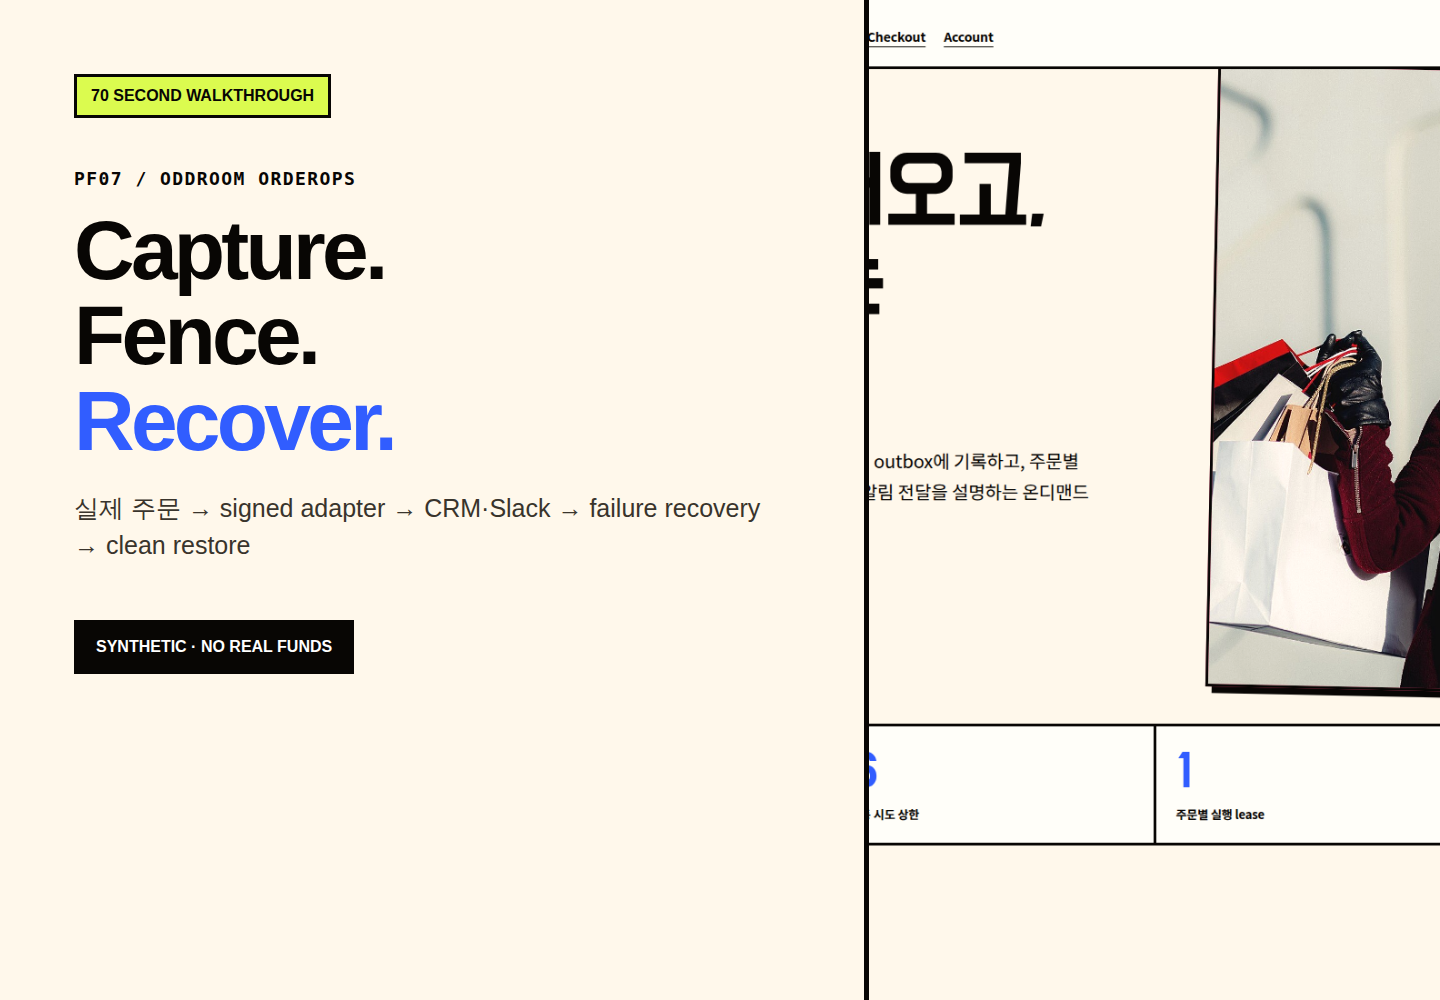
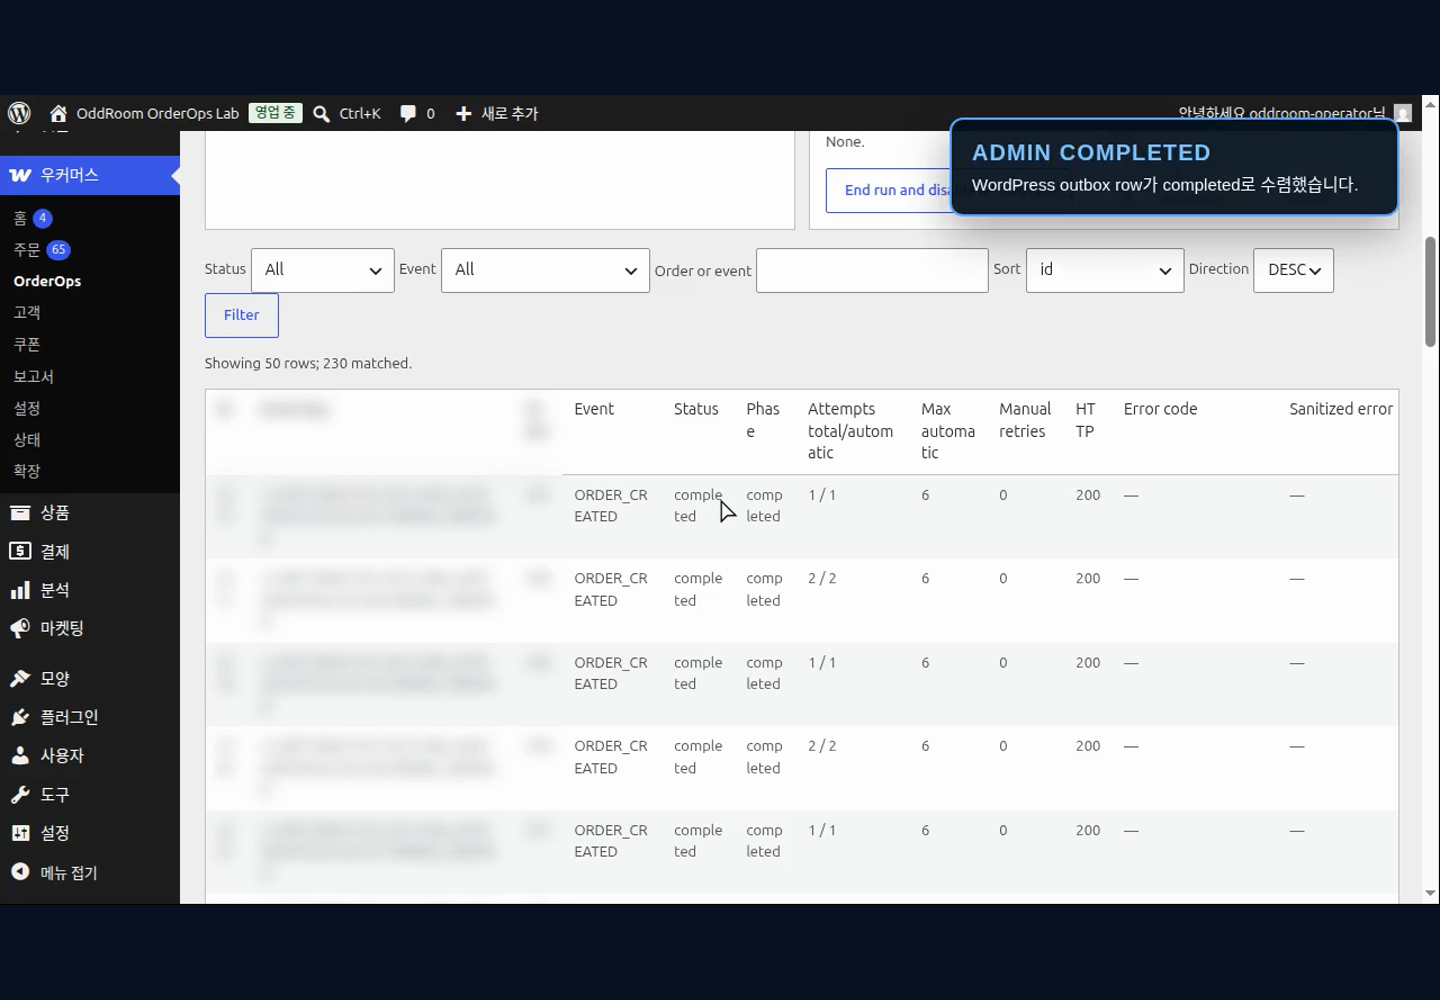
Publish PF07 real execution case media

diff --git a/assets/js/projects.js b/assets/js/projects.js
@@ -123,8 +123,8 @@ window.PORTFOLIO_PROJECTS = [
     excluded: ["실결제·실고객·실매출 처리", "부분 환불·chargeback·모든 WooCommerce edge case", "고가용성·production SLA·enterprise scale", "formal exactly-once delivery", "Slack accepted/response-lost window 제거"],
     tech: ["WordPress 7.0.2", "WooCommerce 10.9.4", "PHP 8.3", "Action Scheduler 4.0.0", "n8n 2.25.7", "HubSpot API", "Slack API", "Docker Compose"],
     disclosure: "합성 주문과 비금전 결제 경로로 검증한 ON_DEMAND_ONLY staging 사례입니다. 정적 case와 redacted evidence는 runtime uptime과 독립적으로 공개됩니다.",
-    videoSummary: "70초 동안 주문 capture, outbox fencing, signed n8n adapter, HubSpot·Slack checkpoint, bounded retry, operator review, reconciliation, clean restore를 실제 마스킹 화면과 관찰 수치로 연결합니다.",
-    recoveryVideoSummary: "실패 직전 checkpoint에서 자동 재시도 또는 operator_wait로 갈라지고, 증거가 있는 경우에만 안전한 phase에서 한 번 재개하는 18초 복구 클립입니다.",
+    videoSummary: "72.767초 연속 녹화에서 실제 상품 선택·키 입력·비금전 주문 제출, outbox pending, 화면에 나타나는 WP-CLI worker 실행, completed 수렴을 같은 주문 흐름으로 확인합니다.",
+    recoveryVideoSummary: "28.333초 연속 녹화에서 화면에 나타나는 n8n 중지·실패 worker·재기동·복구 worker와 pending → retry_wait → completed 전이를 확인합니다.",
     sourceUrl: "https://github.com/Cetacean916/oddroom-woo-orderops",
     proofScorecard: [
       ["지원 주문 이벤트", "4종", "GATE-02"],
@@ -140,7 +140,8 @@ window.PORTFOLIO_PROJECTS = [
       ["10-gate evidence index", "https://github.com/Cetacean916/oddroom-woo-orderops/blob/main/evidence/public/acceptance-matrix.json"],
       ["WordPress tests", "https://github.com/Cetacean916/oddroom-woo-orderops/blob/main/plugin/oddroom-orderops/tests/run.php"],
       ["n8n workflow", "https://github.com/Cetacean916/oddroom-woo-orderops/blob/main/workflow/oddroom-orderops-vsl.json"],
-      ["복구 runbook", "https://github.com/Cetacean916/oddroom-woo-orderops/blob/main/docs/RECOVERY-RUNBOOK.md"]
+      ["복구 runbook", "https://github.com/Cetacean916/oddroom-woo-orderops/blob/main/docs/RECOVERY-RUNBOOK.md"],
+      ["실행 영상 무결성 기록", "assets/media/pf07/execution-proof.json"]
     ],
     whatProves: ["WooCommerce custom plugin with durable event tracking", "tested duplicate suppression and bounded retries", "signed n8n adapter to HubSpot and Slack", "fault-injection and reconciliation evidence", "staging backup/restore drill completed"],
     doesNotProve: ["Production load, scale, uptime, or SLA", "실결제·실고객·실매출·실환불 처리", "부분 환불, chargeback, reopened/reversed terminal order, 모든 WooCommerce edge case", "PF07이 보존하지 못한 최초 cancellation timestamp 재구성", "Formal exactly-once delivery", "캡처된 유효 signed request의 transport replay 방지", "Slack accepted/response-lost window 제거", "동일 HubSpot Deal에 대한 무관한 외부 writer 방어"],

diff --git a/README.md b/README.md
@@ -38,10 +38,13 @@ success or failure next to the control.
 - PF07: WooCommerce order delivery, bounded retry, operator recovery, and clean restore
 
 PF07 links the public source repository and redacted ten-gate evidence to a
-seven-row buyer scorecard, a 70-second walkthrough, and an 18-second recovery
-clip. Its synthetic staging runtime is on-demand only; the static case remains
-available independently and does not claim real payments, production scale,
-formal exactly-once delivery, or removal of Slack's ambiguous response window.
+seven-row buyer scorecard, a 72.767-second continuous execution recording, and
+a 28.333-second continuous recovery recording. They show real browser input,
+visible WP-CLI and container operations, and observed state transitions rather
+than explanatory slide sequences. Its synthetic staging runtime is on-demand
+only; the static case remains available independently and does not claim real
+payments, production scale, formal exactly-once delivery, or removal of
+Slack's ambiguous response window.
 
 The site is designed to grow by adding a project definition and its reviewed
 public media. Each case identifies its evidence, delivery boundary, technology,